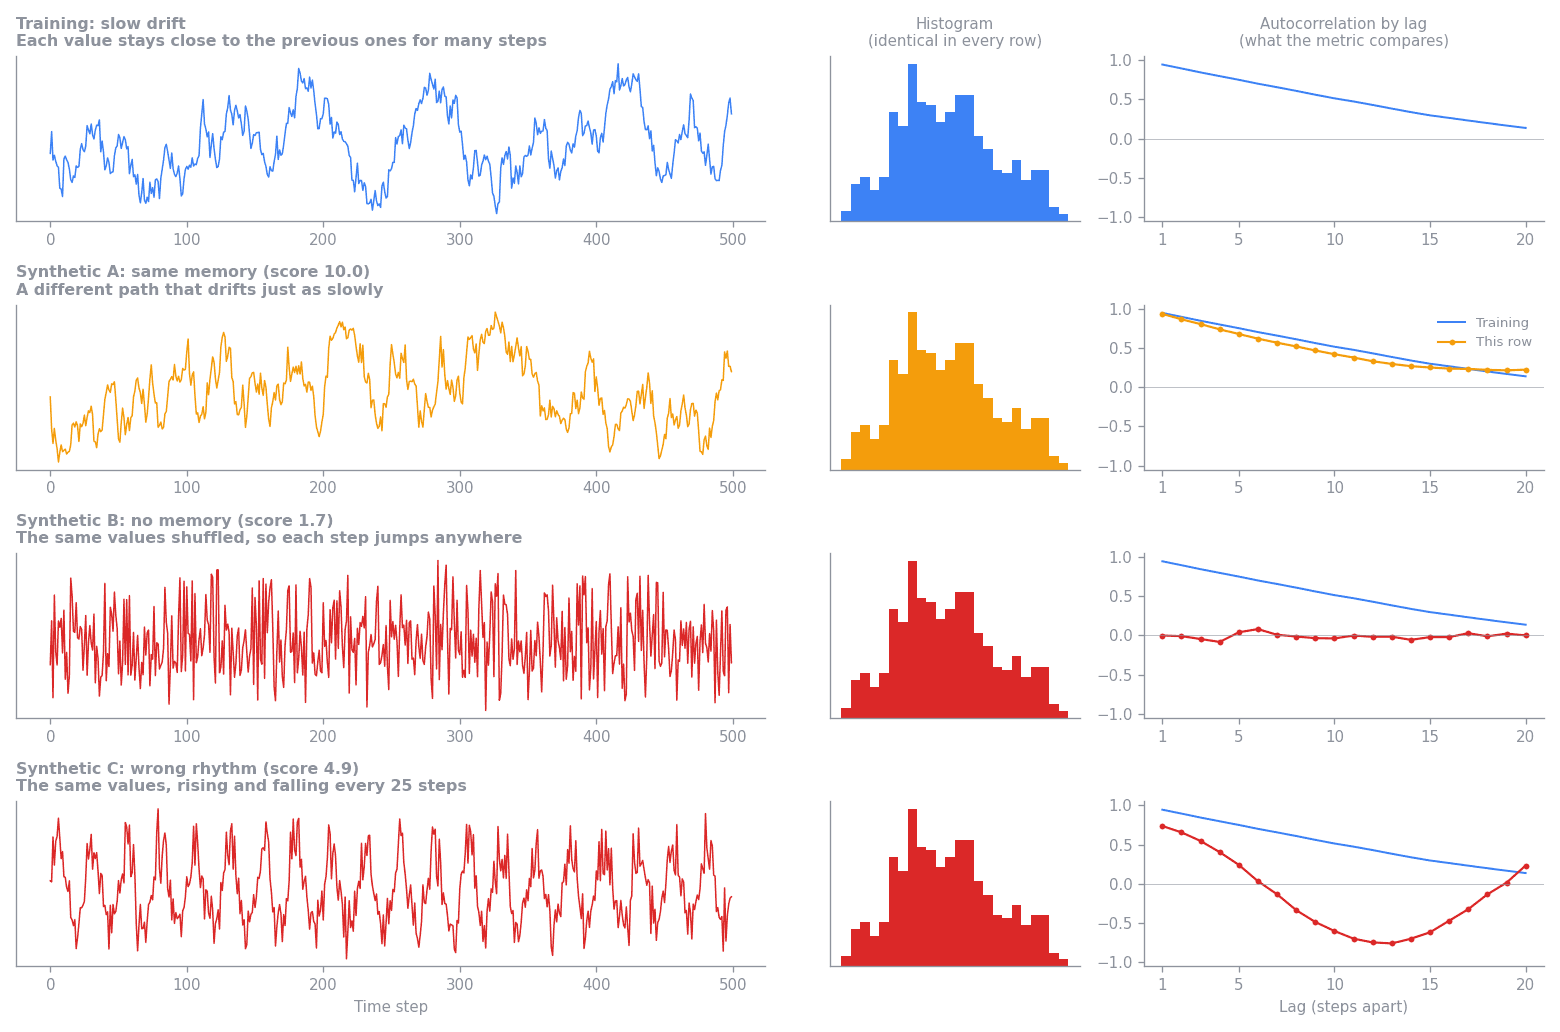
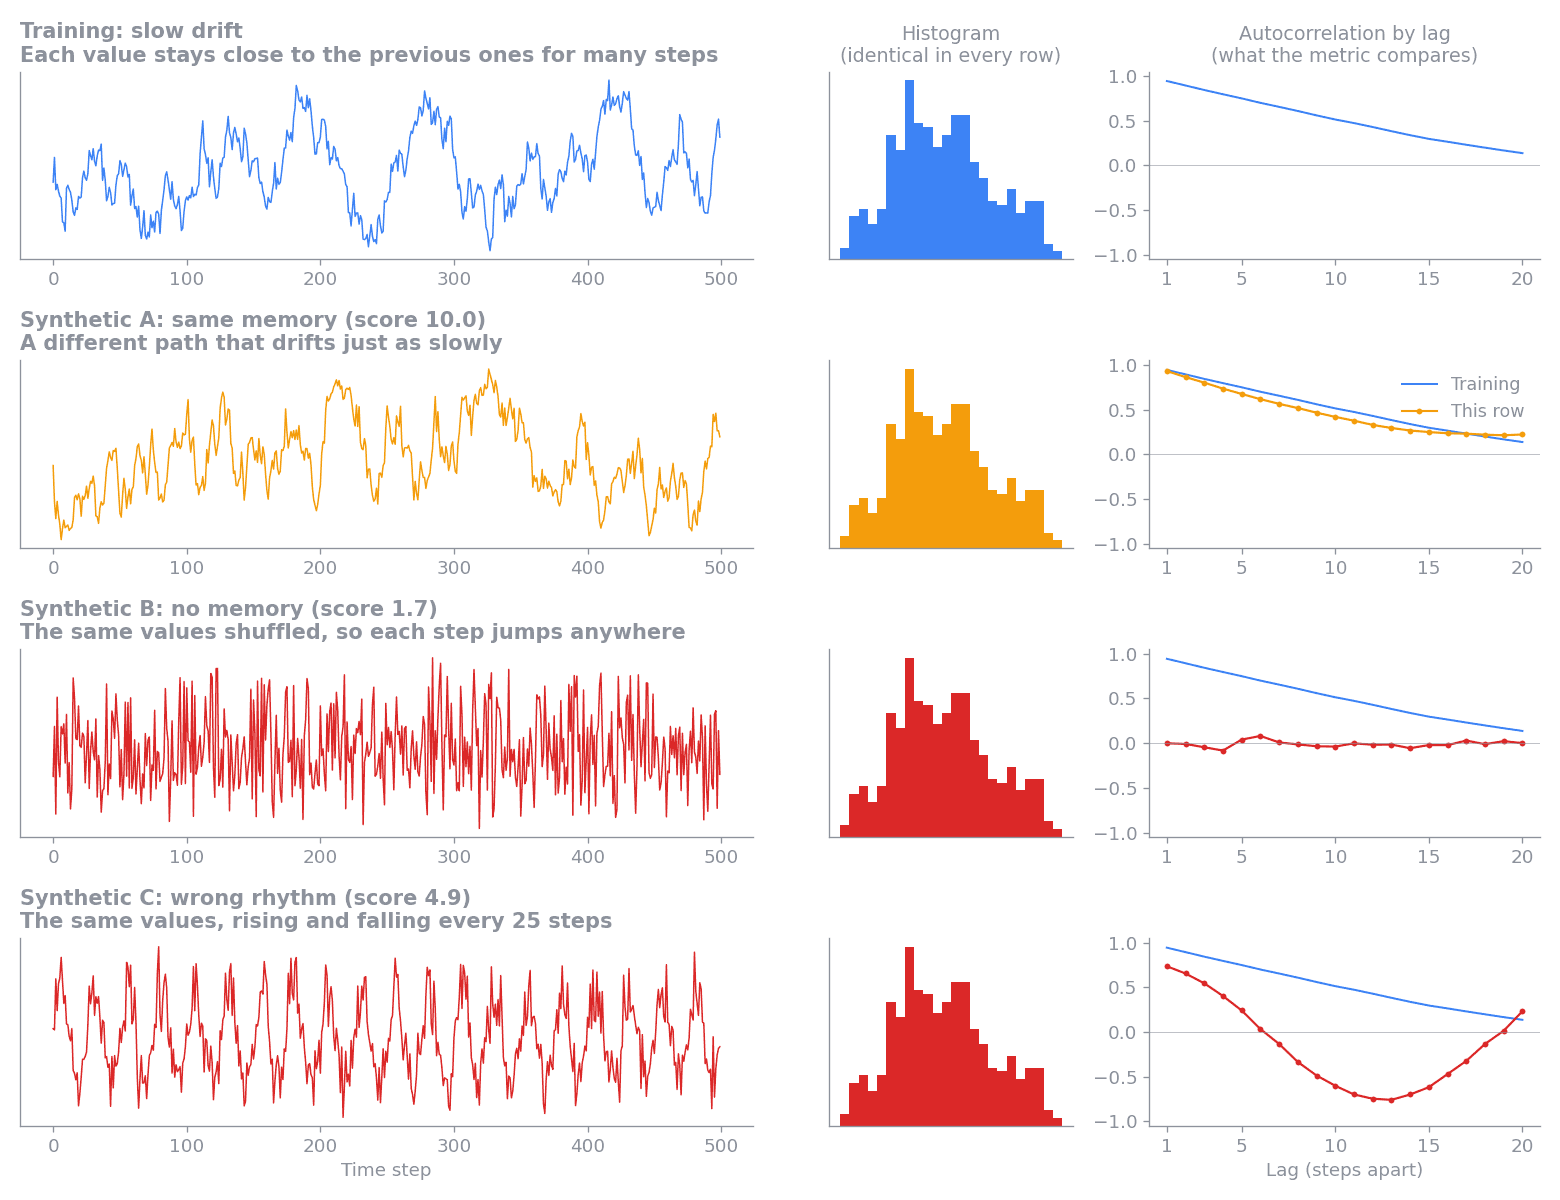
docs: show average autocorrelation scores and explain what a low score means

diff --git a/src/nemo_safe_synthesizer/evaluation/assets/text/multi_modal_tooltips.py b/src/nemo_safe_synthesizer/evaluation/assets/text/multi_modal_tooltips.py
@@ -58,7 +58,8 @@ tooltips = {
     "autocorrelation_similarity_info": """
         Autocorrelation Similarity checks whether synthetic sequences move over time like the training sequences: whether values carry over from one step to the next,
         and whether patterns repeat on the same schedule. Each group and numeric column is scored separately and the scores are averaged. Differences small enough
-        to be explained by chance do not lower the score, so 10 means the timing patterns match and scores near 0 mean the synthetic data has lost them.
+        to be explained by chance do not lower the score, so 10 means the timing patterns match and scores near 0 mean the synthetic data has lost them. A low score
+        does not mean the synthetic data is bad overall, only that it does not reproduce these timing patterns.
     """,
     "autocorrelation_typical_info": """
         How strongly each value relates to the values before it, at each lag (the number of steps apart). Lines show the median across groups and bands cover

diff --git a/docs/user-guide/time-series-metrics/autocorrelation-similarity.md b/docs/user-guide/time-series-metrics/autocorrelation-similarity.md
@@ -39,6 +39,15 @@ lower the score, so synthetic data generated by the same process as the
 training data scores near 10, and synthetic data with no temporal structure
 left scores near 0.
 
+The score covers only how values depend on their own recent past. A low score
+does not mean the synthetic data is bad overall. It means the synthetic data
+does not reproduce the persistence or rhythm of the training data. The values
+themselves, their distributions, and the relationships between columns can
+still match well, as with the shuffled series in the figure above, which has
+exactly the training values and scores 1.7. Read this score alongside the
+Synthetic Quality Score, and weigh it by how much your use case depends on
+behavior over time.
+
 ### Example scenarios
 
 The figures below show how the metric scores one group and column pair in a
@@ -49,11 +58,12 @@ synthetic series (orange):
 - The middle chart shows their autocorrelation at lags 1 to 20. A lag is the
   number of steps between the two values being compared. The shaded band is
   the sampling noise the score allows for.
-- The right column shows the score for the plotted pair, and the typical
-  score across 30 random repeats at 50, 200, and 1,000 points per sequence.
-  A single pair can land a point or more away from its typical score.
+- The right column shows the average score across 30 random pairs from the
+  same scenario, at 50, 200, and 1,000 points per sequence. The plotted pair
+  is one example at 200 points, and a single pair can land a point or more
+  away from the average.
 
-![Ten training and synthetic series pairs with their autocorrelation profiles and scores: perfect copies, close matches, partial loss of persistence or cycle strength, overly smooth synthetic data, shuffled synthetic data, and a cycle half as long as in training.](assets/autocorrelation-scenarios-core.png)
+![Ten training and synthetic series pairs with their autocorrelation profiles and average scores: perfect copies, close matches, partial loss of persistence or cycle strength, overly smooth synthetic data, shuffled synthetic data, and a cycle half as long as in training.](assets/autocorrelation-scenarios-core.png)
 
 ![Eight more training and synthetic series pairs: matching and missing trends, a cycle longer than max_lag, a level, scale, and phase change, missing values, outlier spikes, a regime change, and a shorter synthetic sequence.](assets/autocorrelation-scenarios-additional.png)
 

diff --git a/docs/product-overview/evaluation.md b/docs/product-overview/evaluation.md
@@ -104,7 +104,7 @@ Time-series metrics check whether synthetic sequences change over time the way t
 
 ### Autocorrelation Similarity
 
-This score measures whether each synthetic numeric column keeps the memory and rhythm of its training counterpart: how long values stay close to their recent past, and whether they rise and fall in the same cycles. We compare the autocorrelation at lags 1 to 20 for every group and column pair, ignoring differences small enough to be explained by chance. Synthetic data from the same process scores near 10, and shuffled or constant data scores near 0. See [Autocorrelation Similarity](../user-guide/time-series-metrics/autocorrelation-similarity.md) for example scenarios, a walkthrough of the report charts, and configuration.
+This score measures whether each synthetic numeric column keeps the memory and rhythm of its training counterpart: how long values stay close to their recent past, and whether they rise and fall in the same cycles. We compare the autocorrelation at lags 1 to 20 for every group and column pair, ignoring differences small enough to be explained by chance. Synthetic data from the same process scores near 10, and shuffled or constant data scores near 0. A low score does not mean the synthetic data is bad overall: its values and column relationships can still match well, and the score only shows that its behavior over time does not. See [Autocorrelation Similarity](../user-guide/time-series-metrics/autocorrelation-similarity.md) for example scenarios, a walkthrough of the report charts, and configuration.
 
 ## Evaluation Reports
 
